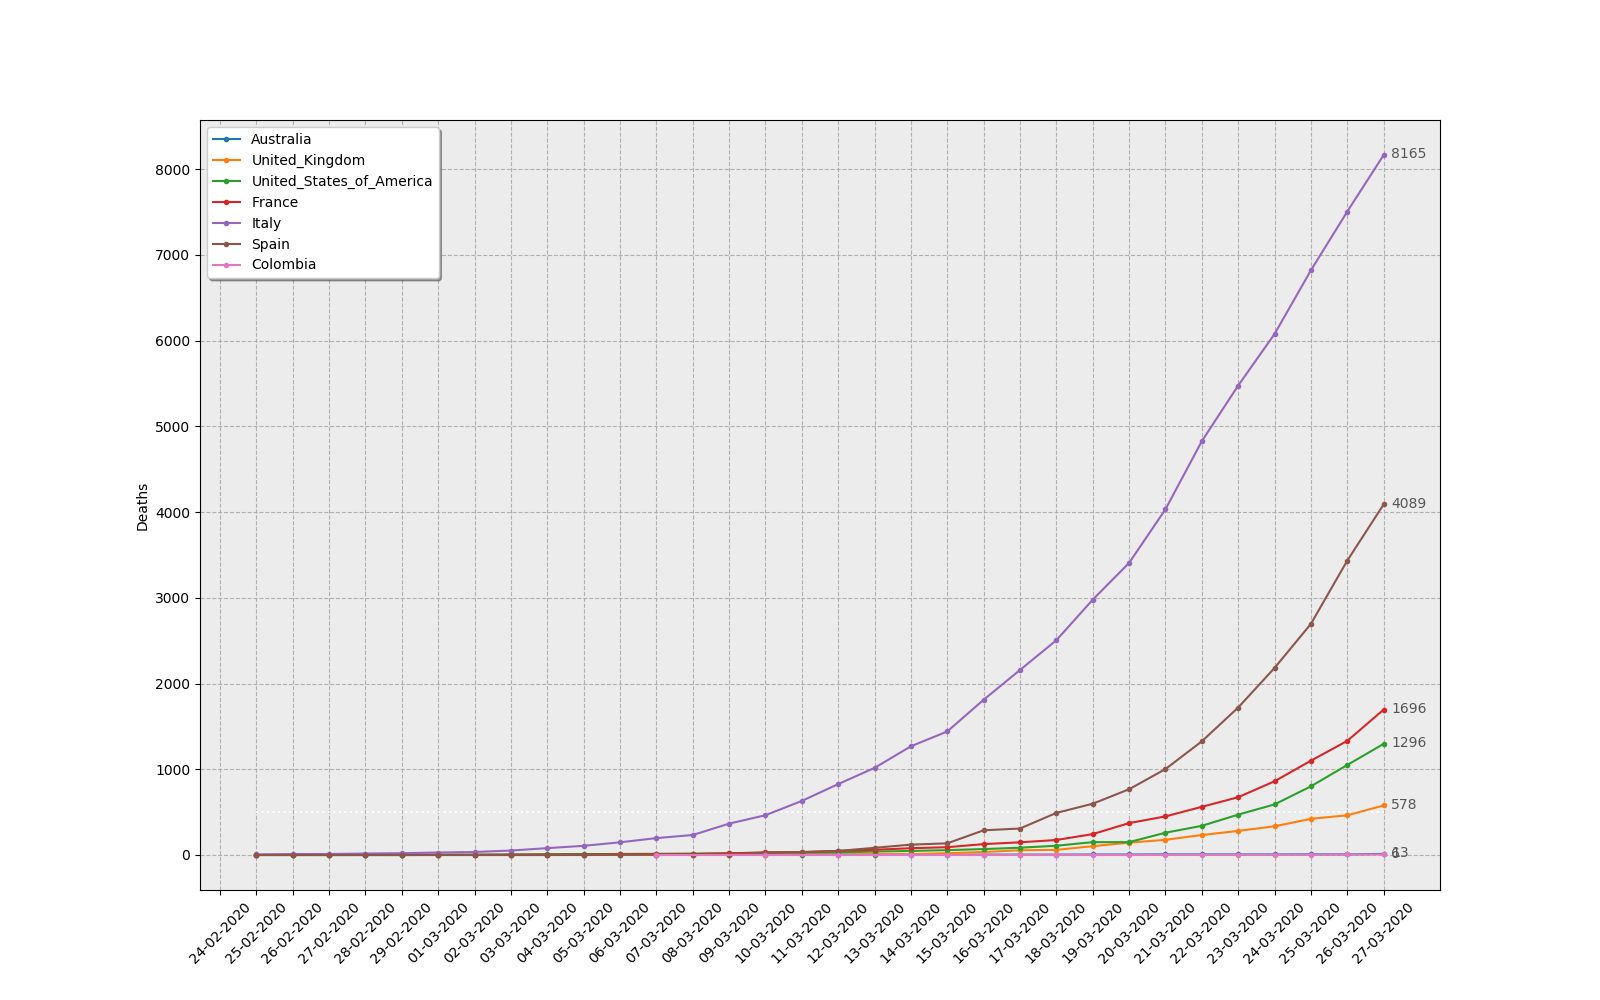
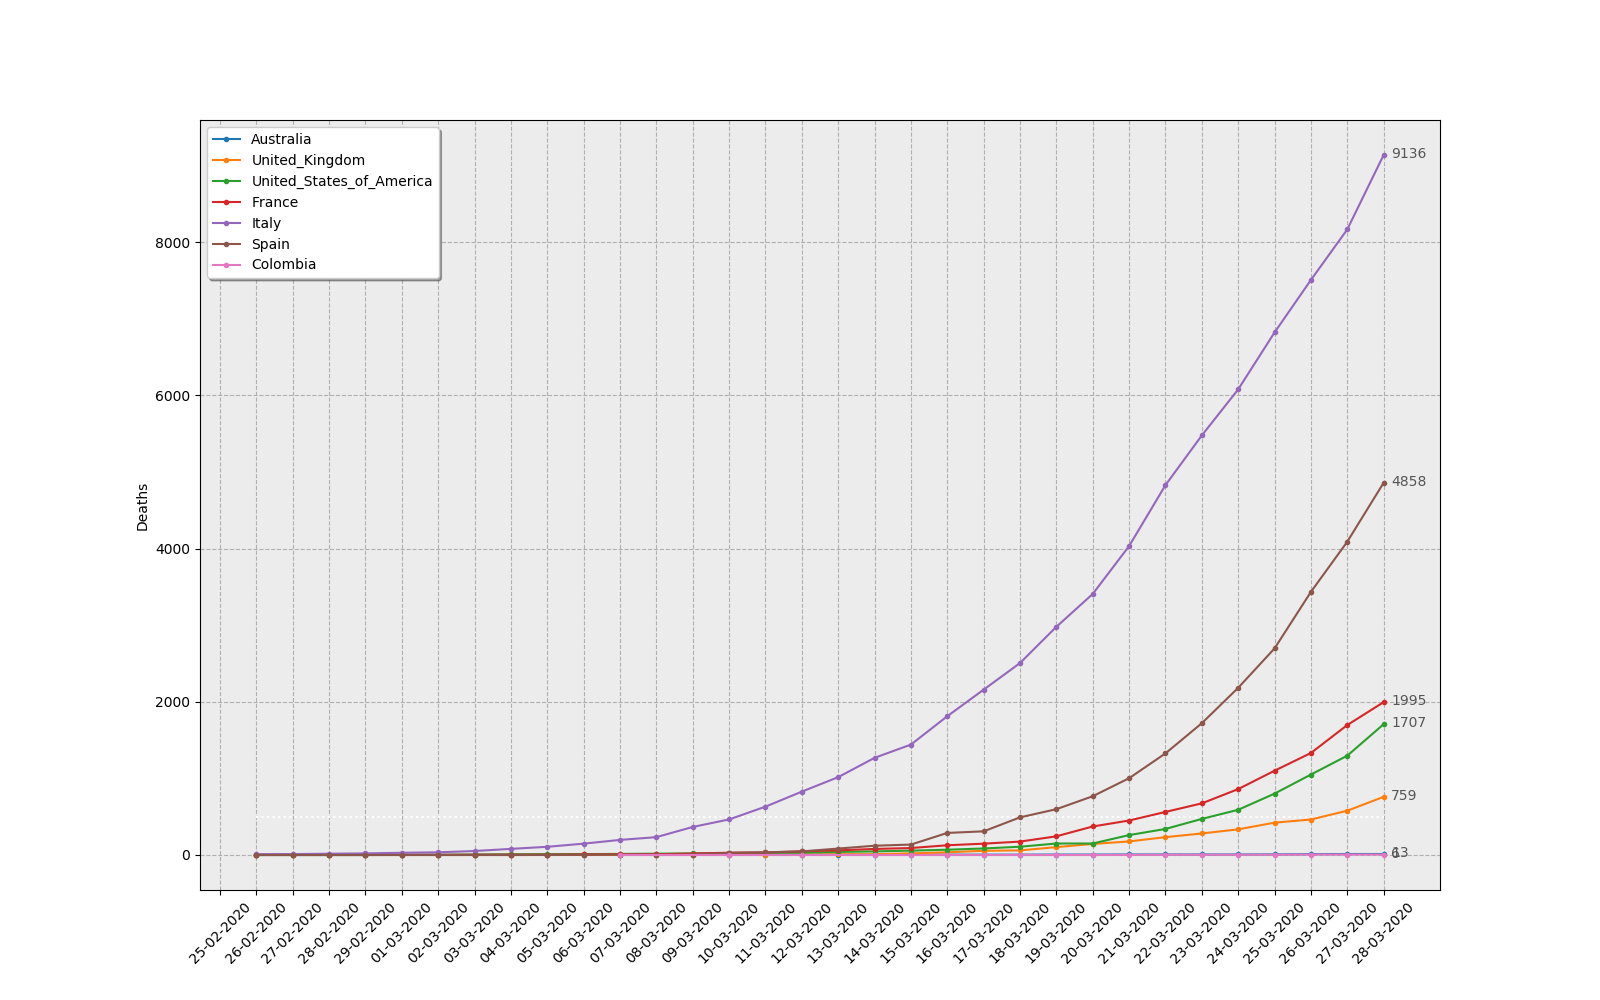
update 03/28/2020

diff --git a/README.md b/README.md
@@ -19,6 +19,6 @@ countries = ['Colombia',
 
 Plots are saved in `plots/` folder as PNG files.
 
-### Mortality plot (updated 03/25/2020)
+### Mortality plot (updated 03/28/2020)
 
 ![Mortality plot](covid19_Mortality.png)

diff --git a/plots/README.md b/plots/README.md
@@ -1,4 +1,4 @@
-## Plots (updated 03/25/2020)
+## Plots (updated 03/28/2020)
 
 ### Cases plot 
 
